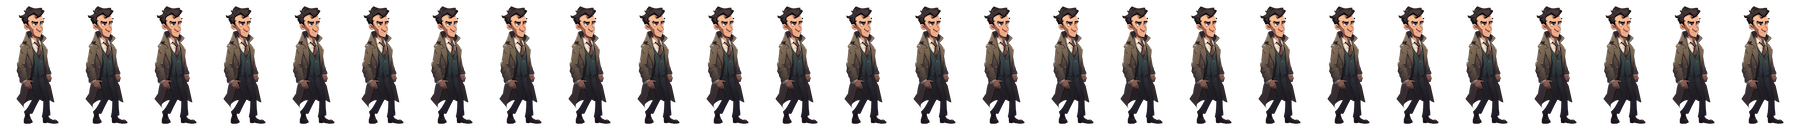
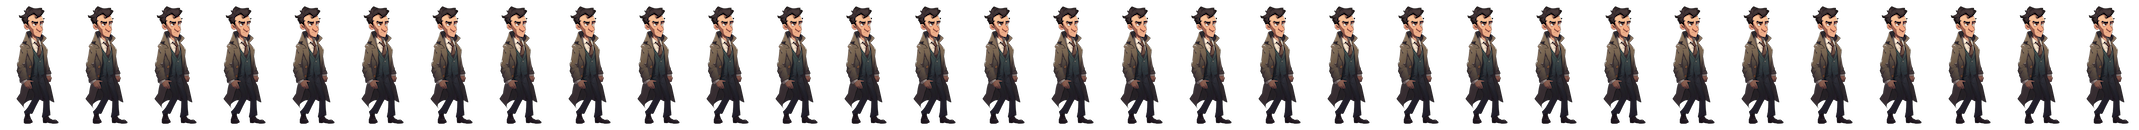
Animation files fixes

diff --git a/src/player/animation/walking_animation.rs b/src/player/animation/walking_animation.rs
@@ -17,9 +17,9 @@ impl SpriteAnimationSettings for WalkingAnimation {
         GridInfo {
             file_path: "images/player/animation/walking.png".to_string(),
             rows: 1,
-            columns: 26,
-            tile_size: Vec2::new(64.0, 114.0),
-            tile_scale: Vec3::new(1.5, 1.5, 1.0),
+            columns: 30,
+            tile_size: Vec2::new(69.0, 109.0),
+            tile_scale: Vec3::new(1.55, 1.55, 1.0),
         }
     }
 }

diff --git a/src/player/animation/idle_animation.rs b/src/player/animation/idle_animation.rs
@@ -17,7 +17,7 @@ impl SpriteAnimationSettings for IdleAnimation {
         GridInfo {
             file_path: "images/player/animation/idle.png".to_string(),
             rows: 1,
-            columns: 26,
+            columns: 30,
             tile_size: Vec2::new(69.0, 130.0),
             tile_scale: Vec3::new(1.4, 1.4, 1.0),
         }
